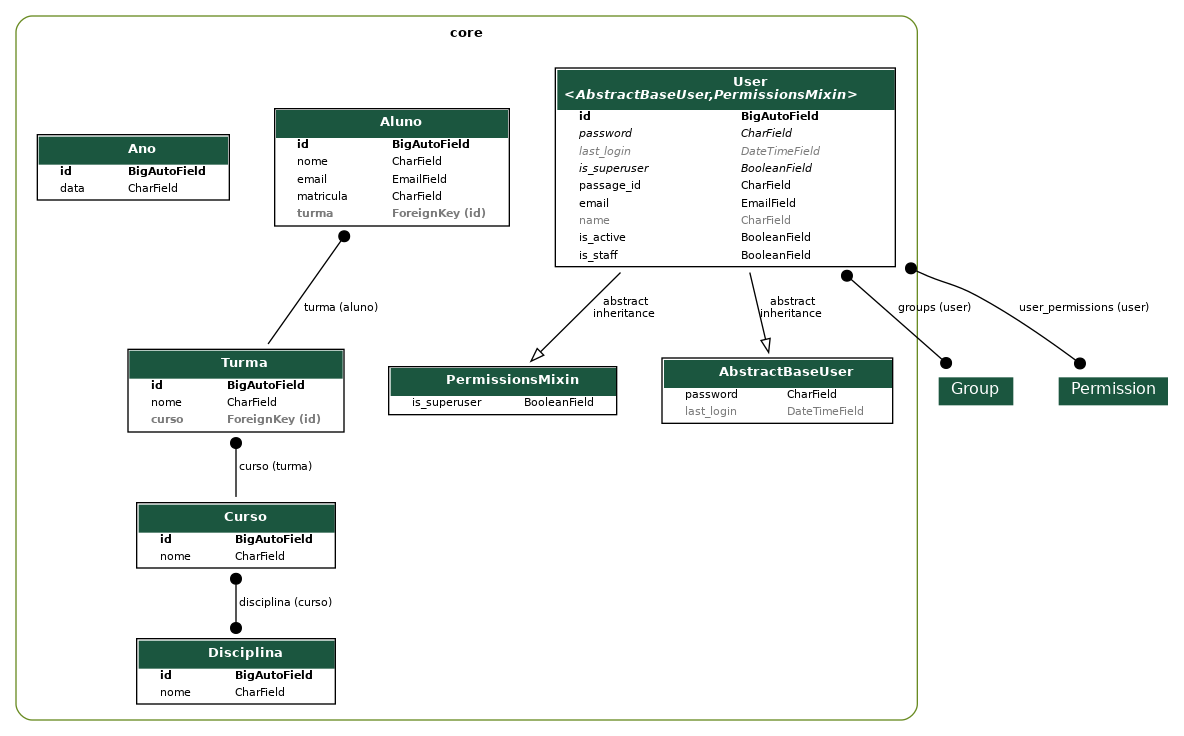
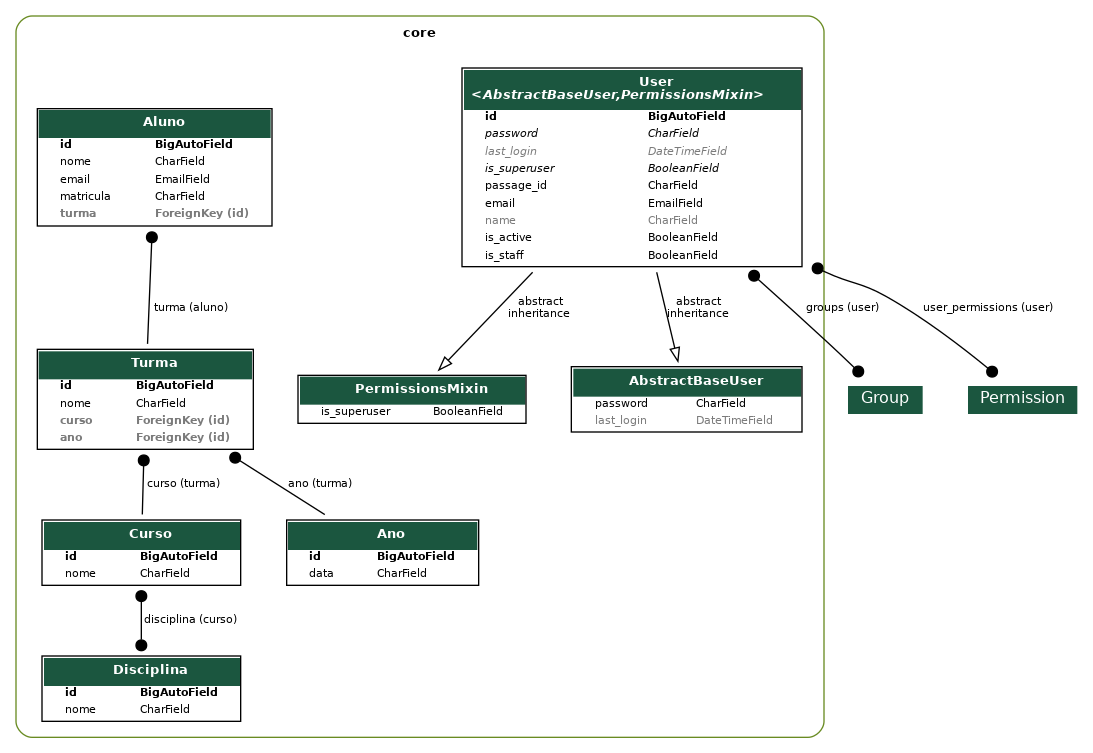
Adding the filter in Django, turma.py

diff --git a/core/admin.py b/core/admin.py
@@ -7,6 +7,7 @@ from django.contrib.auth.admin import UserAdmin as BaseUserAdmin
 from django.utils.translation import gettext_lazy as _
 
 from core import models
+from core.models.turma import Turma
 
 
 class UserAdmin(BaseUserAdmin):
@@ -60,8 +61,16 @@ class AlunoAdmin(admin.ModelAdmin):
     list_per_page = 25
 
 
+@admin.register(models.Turma)
+class TurmaAdmin(admin.ModelAdmin):
+    list_display = ("nome", "curso", "ano__data")
+    search_fields = ("nome", "curso__nome")
+    list_filter = ("ano", "curso")
+    ordering = ("nome", "curso", "ano__data")
+    list_per_page = 21
+
+
 admin.site.register(models.User, UserAdmin)
 admin.site.register(models.Disciplina)
 admin.site.register(models.Curso)
-admin.site.register(models.Turma)
 admin.site.register(models.Ano)

diff --git a/core/views/turma.py b/core/views/turma.py
@@ -2,8 +2,15 @@ from rest_framework.viewsets import ModelViewSet
 
 from core.models import Turma
 from core.serializers import TurmaSerializer
+from core.serializers.turma import TurmaListSerializer
 
 
 class TurmaViewSet(ModelViewSet):
     queryset = Turma.objects.all()
     serializer_class = TurmaSerializer
+
+    def get_serializer_class(self):
+        if self.action == "list":
+            return TurmaListSerializer
+        elif self.action == "retrieve":
+            return TurmaSerializer

diff --git a/core/migrations/0016_turma_ano.py b/core/migrations/0016_turma_ano.py
@@ -1,0 +1,19 @@
+# Generated by Django 5.1.2 on 2024-11-29 13:21
+
+import django.db.models.deletion
+from django.db import migrations, models
+
+
+class Migration(migrations.Migration):
+
+    dependencies = [
+        ("core", "0015_ano"),
+    ]
+
+    operations = [
+        migrations.AddField(
+            model_name="turma",
+            name="ano",
+            field=models.ForeignKey(blank=True, null=True, on_delete=django.db.models.deletion.PROTECT, to="core.ano"),
+        ),
+    ]

diff --git a/core/models/turma.py b/core/models/turma.py
@@ -2,12 +2,14 @@ from django.db import models
 
 from black import mode
 
+from .ano import Ano
 from .curso import Curso
 
 
 class Turma(models.Model):
     nome = models.CharField(max_length=100)
     curso = models.ForeignKey(Curso, on_delete=models.PROTECT, blank=True)
+    ano = models.ForeignKey(Ano, on_delete=models.PROTECT, null=True, blank=True)
 
     def __str__(self):
         return f"{self.id} - {self.nome} - {self.curso.nome}"

diff --git a/core/serializers/turma.py b/core/serializers/turma.py
@@ -1,3 +1,5 @@
+from attrs import field
+from cffi import model
 from rest_framework.serializers import ModelSerializer
 
 from core.models import Turma
@@ -7,3 +9,9 @@ class TurmaSerializer(ModelSerializer):
     class Meta:
         model = Turma
         fields = "__all__"
+
+
+class TurmaListSerializer(ModelSerializer):
+    class Meta:
+        model = Turma
+        field = ["nome", "curso", "ano"]
